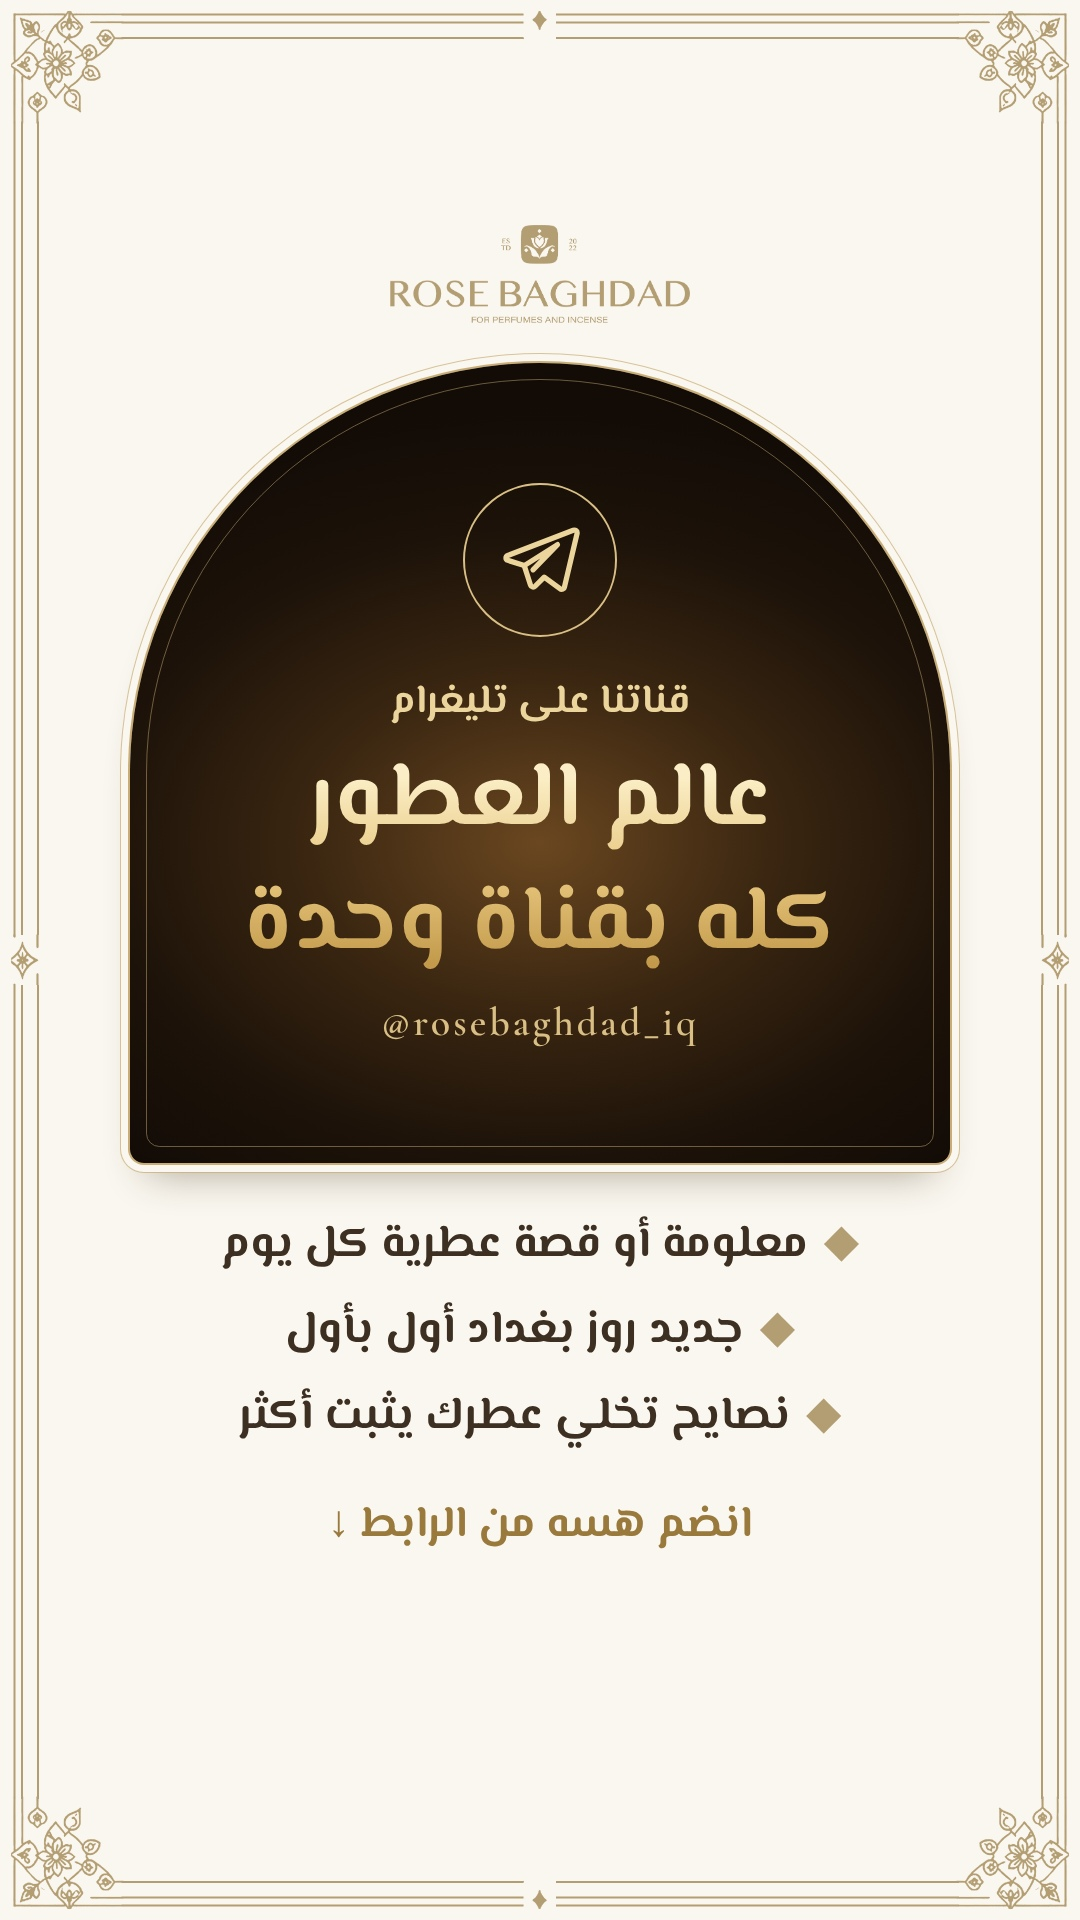
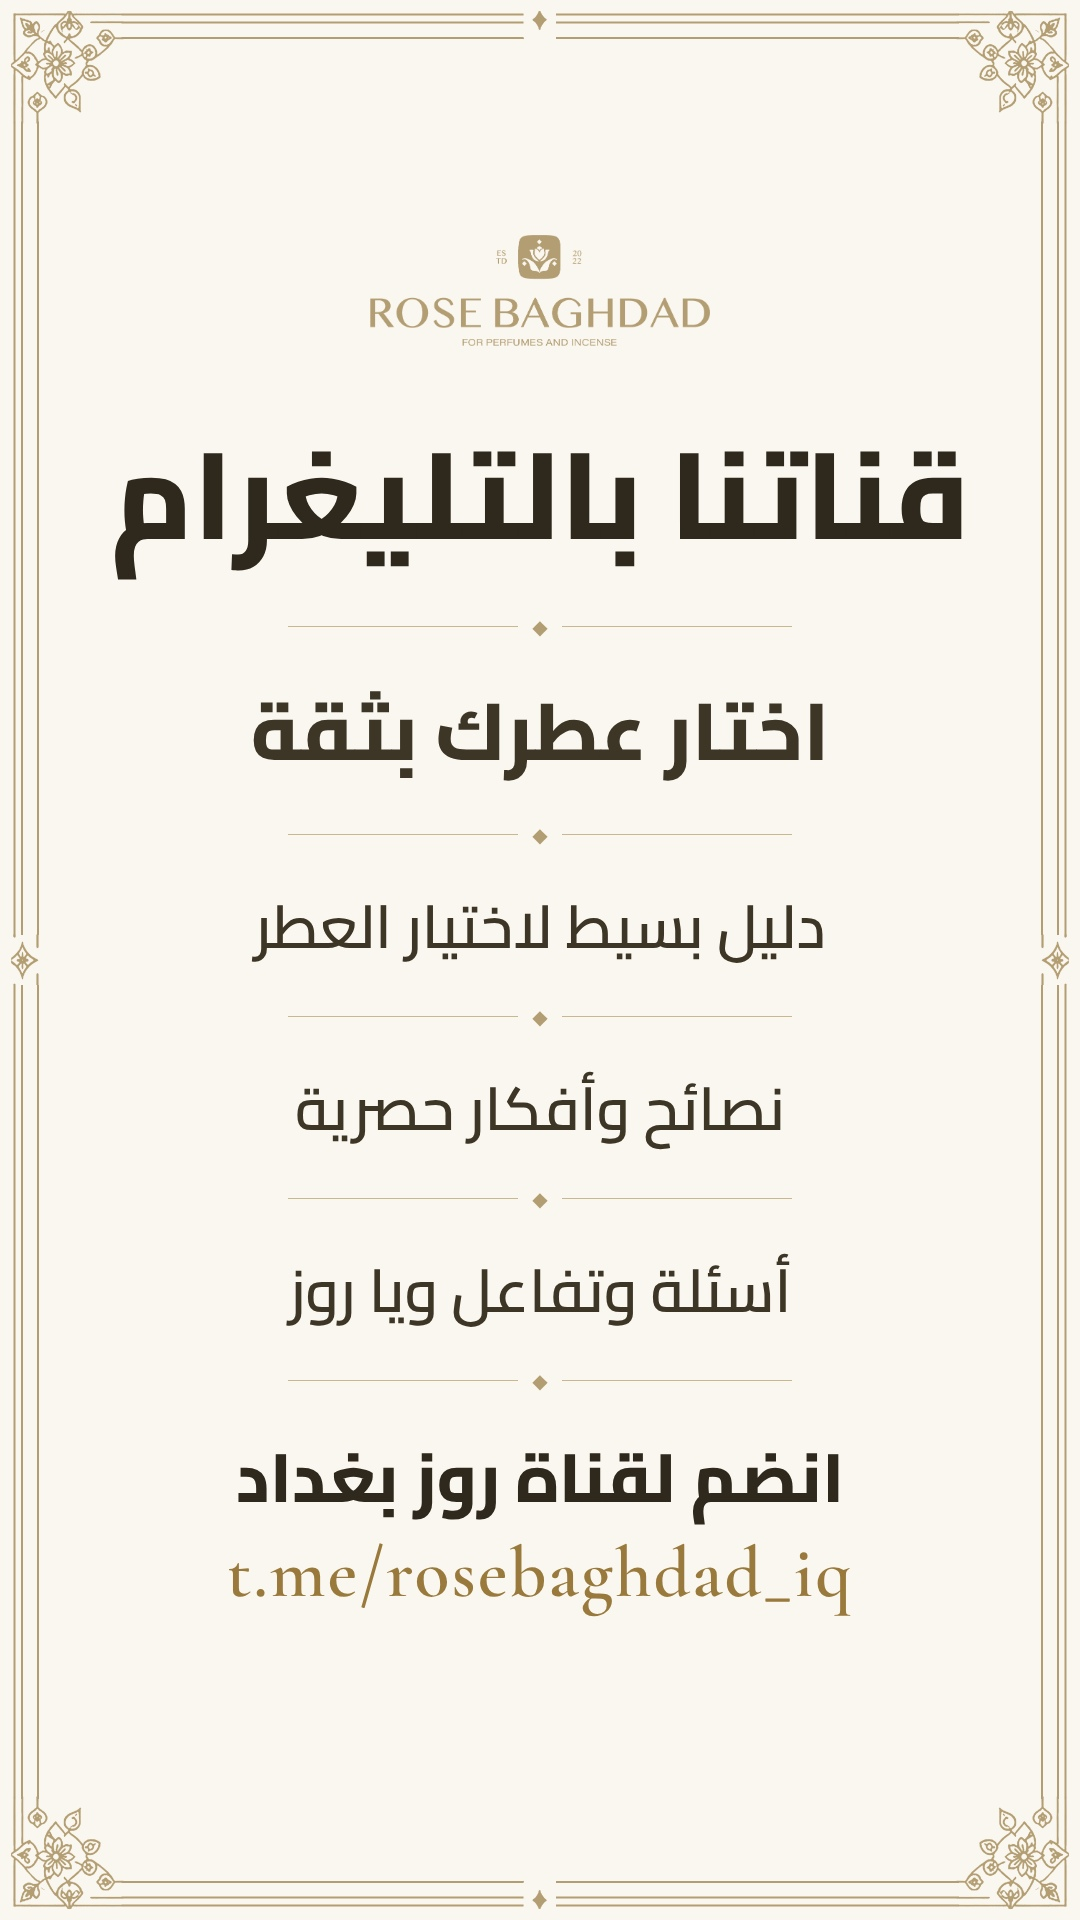
Promo stories in the everyday frame (list layout)
Claude-Session: https://claude.ai/code/session_01HXze8h1ERTKVVJtJjHvpYz

diff --git a/tools/promo/list.html b/tools/promo/list.html
@@ -1,0 +1,23 @@
+<!doctype html><html lang="ar"><head><meta charset="utf-8"><style>
+/* Promo story in the everyday cream + gold frame: logo, big title, lines split by diamond rules, link. No dark panel. */
+@font-face{font-family:CG;font-weight:600;src:url(../reel/fonts/cormorant-garamond-latin-600-normal.woff2)}
+@font-face{font-family:CA;font-weight:600;src:url(../reel/fonts/cairo-arabic-600-normal.woff2)}
+@font-face{font-family:CA;font-weight:800;src:url(../reel/fonts/cairo-arabic-800-normal.woff2)}
+html,body{margin:0;background:#faf7f0}
+#r{width:1080px;height:1920px;position:relative;overflow:hidden;background:#faf7f0;display:flex;flex-direction:column;align-items:center;direction:rtl}
+#fr{position:absolute;left:0;top:0;width:100%;height:100%}#r>*:not(#fr){position:relative}
+.logo{width:340px;margin-top:235px}
+.t{font-family:CA;font-weight:800;font-size:122px;line-height:1.3;color:#2e281d;margin-top:70px;text-align:center}
+.dv{display:flex;align-items:center;gap:14px;color:#b39d72;font-size:20px;margin:40px 0}.dv i{display:block;width:230px;height:1px;background:#c9b88f}
+.s{font-family:CA;font-weight:800;font-size:80px;color:#3d3627;line-height:1.3}
+.l{font-family:CA;font-weight:600;font-size:60px;color:#3d3627;line-height:1.3}
+.j{font-family:CA;font-weight:800;font-size:68px;color:#2e281d;line-height:1.3}
+.u{font-family:CG;font-weight:600;font-size:72px;letter-spacing:2px;color:#9a7a3c;direction:ltr;margin-top:8px}
+</style></head><body><div id="r"></div><script>
+const k=new URLSearchParams(location.search).get('k');
+const D={tg:{t:'قناتنا بالتليغرام',s:'اختار عطرك بثقة',l:['دليل بسيط لاختيار العطر','نصائح وأفكار حصرية','أسئلة وتفاعل ويا روز'],j:'انضم لقناة روز بغداد',u:'t.me/rosebaghdad_iq'},
+ web:{t:'متجرنا الإلكتروني',s:'كل عطورنا بمكان واحد',l:['تصفح العطور والبخور كلها','اطلب بسهولة وإنت بمكانك','توصيل مجاني لكل المحافظات'],j:'ادخل متجر روز بغداد',u:'www.rosebaghdad.iq'}}[k];
+const dv='<div class="dv"><i></i>◆<i></i></div>';
+document.getElementById('r').innerHTML=`<img id="fr" src="../frame/frame_story.png"><img class="logo" src="../reel/horizontal_gold.png">
+<div class="t">${D.t}</div>${dv}<div class="s">${D.s}</div>${dv}${D.l.map(x=>`<div class="l">${x}</div>`).join(dv)}${dv}<div class="j">${D.j}</div><div class="u">${D.u}</div>`;
+</script></body></html>
